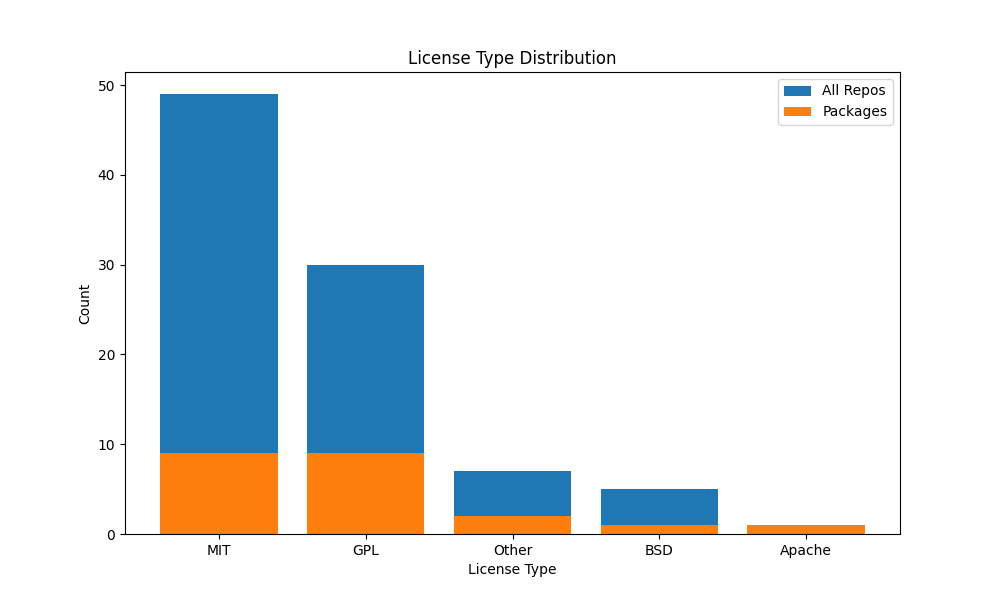
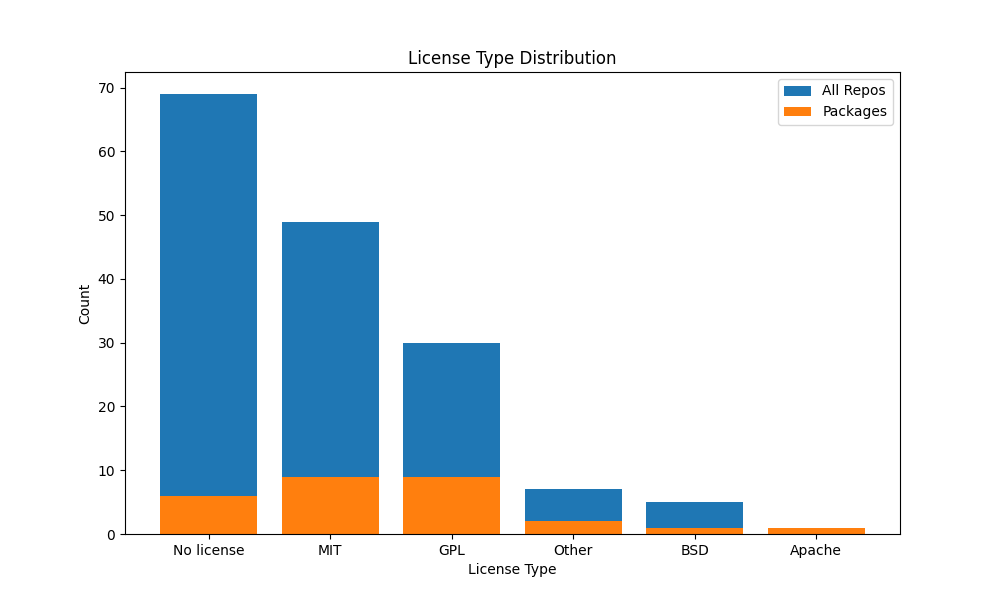
update with no license

diff --git a/plot_results.py b/plot_results.py
@@ -17,6 +17,11 @@ print(
 )
 
 plt.figure(figsize=(10, 6))
+# Replace empty license_type with "No license" only for empty strings
+df.loc[df["license_type"].isna(), "license_type"] = "No license"
+
+print(df)
+
 license_counts = df["license_type"].value_counts()
 license_counts_packages = df[df["is_package"]]["license_type"].value_counts()
 
